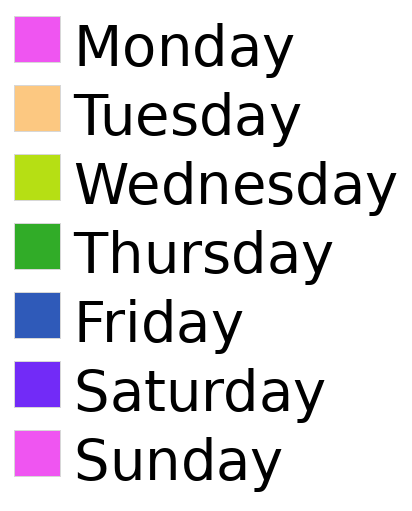
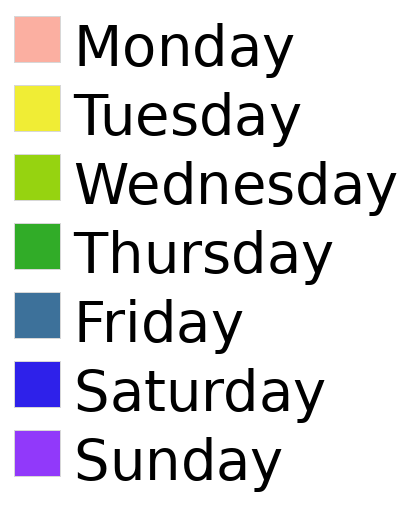
Fix a few issues with the legends

diff --git a/results/paper/probe_gemma_2_9b_l11.tex b/results/paper/probe_gemma_2_9b_l11.tex
@@ -10,6 +10,7 @@
 \begin{minipage}[c][4.0cm][c]{0.7407\linewidth}%
 \centering%
 \includegraphics[width=\linewidth,height=4.0cm,keepaspectratio]{camera_ready/gemma_2_9b_l11__weekdays_—_expert_analysis__E282__cyc_7d__r2__0.8080__scatter.png}%
+\par\vspace{-2pt}{\small\textbf{(a)}}%
 \end{minipage}%
 \begin{minipage}[c][4.0cm][c]{0.2593\linewidth}%
 \centering%
@@ -24,10 +25,12 @@
 \begin{minipage}[c][4.0cm][c]{0.4255\linewidth}%
 \centering%
 \includegraphics[width=\linewidth,height=4.0cm,keepaspectratio]{camera_ready/gemma_2_9b_l11__hours_—_expert_analysis__E1029__am_pm__acc__1.0000__scatter.png}%
+\par\vspace{-2pt}{\small\textbf{(b)}}%
 \end{minipage}%
 \begin{minipage}[c][4.0cm][c]{0.4255\linewidth}%
 \centering%
 \includegraphics[width=\linewidth,height=4.0cm,keepaspectratio]{camera_ready/gemma_2_9b_l11__hours_—_expert_analysis__E1347__cyc_24h__r2__0.6776__scatter.png}%
+\par\vspace{-2pt}{\small\textbf{(c)}}%
 \end{minipage}%
 \begin{minipage}[c][4.0cm][c]{0.1489\linewidth}%
 \centering%
@@ -45,6 +48,7 @@
 \begin{minipage}[c][4.0cm][c]{0.7407\linewidth}%
 \centering%
 \includegraphics[width=\linewidth,height=4.0cm,keepaspectratio]{camera_ready/gemma_2_9b_l11__months_—_expert_analysis__E1942__cyc_12m__r2__0.5915__scatter.png}%
+\par\vspace{-2pt}{\small\textbf{(d)}}%
 \end{minipage}%
 \begin{minipage}[c][4.0cm][c]{0.2593\linewidth}%
 \centering%
@@ -59,10 +63,12 @@
 \begin{minipage}[c][4.0cm][c]{0.4255\linewidth}%
 \centering%
 \includegraphics[width=\linewidth,height=4.0cm,keepaspectratio]{camera_ready/gemma_2_9b_l11__temperatures_—_expert_analysis__E892__linear_f__r2__0.8481__means.png}%
+\par\vspace{-2pt}{\small\textbf{(e)}}%
 \end{minipage}%
 \begin{minipage}[c][4.0cm][c]{0.4255\linewidth}%
 \centering%
 \includegraphics[width=\linewidth,height=4.0cm,keepaspectratio]{camera_ready/gemma_2_9b_l11__temperatures_—_expert_analysis__E485__linear_f__r2__0.6832__means.png}%
+\par\vspace{-2pt}{\small\textbf{(f)}}%
 \end{minipage}%
 \begin{minipage}[c][4.0cm][c]{0.1489\linewidth}%
 \centering%
@@ -80,6 +86,7 @@
 \begin{minipage}[c][4.0cm][c]{0.7407\linewidth}%
 \centering%
 \includegraphics[width=\linewidth,height=4.0cm,keepaspectratio]{camera_ready/gemma_2_9b_l11__time_units_—_expert_analysis__E786__log_duration__r2__0.8392__scatter.png}%
+\par\vspace{-2pt}{\small\textbf{(g)}}%
 \end{minipage}%
 \begin{minipage}[c][4.0cm][c]{0.2593\linewidth}%
 \centering%
@@ -94,6 +101,7 @@
 \begin{minipage}[c][4.0cm][c]{0.7407\linewidth}%
 \centering%
 \includegraphics[width=\linewidth,height=4.0cm,keepaspectratio]{camera_ready/gemma_2_9b_l11__colors_—_expert_analysis__E500__hue_wheel__r2__0.7723__scatter.png}%
+\par\vspace{-2pt}{\small\textbf{(h)}}%
 \end{minipage}%
 \begin{minipage}[c][4.0cm][c]{0.2593\linewidth}%
 \centering%

diff --git a/results/paper/probe_gemma_2_9b_l20.tex b/results/paper/probe_gemma_2_9b_l20.tex
@@ -10,6 +10,7 @@
 \begin{minipage}[c][4.0cm][c]{0.7407\linewidth}%
 \centering%
 \includegraphics[width=\linewidth,height=4.0cm,keepaspectratio]{camera_ready/gemma_2_9b_l20__weekdays_—_expert_analysis__E1808__cyc_7d__r2__0.7594__scatter.png}%
+\par\vspace{-2pt}{\small\textbf{(a)}}%
 \end{minipage}%
 \begin{minipage}[c][4.0cm][c]{0.2593\linewidth}%
 \centering%
@@ -27,14 +28,17 @@
 \begin{minipage}[c][4.0cm][c]{0.2985\linewidth}%
 \centering%
 \includegraphics[width=\linewidth,height=4.0cm,keepaspectratio]{camera_ready/gemma_2_9b_l20__hours_—_expert_analysis__E1041__am_pm__acc__0.9969__scatter.png}%
+\par\vspace{-2pt}{\small\textbf{(b)}}%
 \end{minipage}%
 \begin{minipage}[c][4.0cm][c]{0.2985\linewidth}%
 \centering%
 \includegraphics[width=\linewidth,height=4.0cm,keepaspectratio]{camera_ready/gemma_2_9b_l20__hours_—_expert_analysis__E1701__cyc_24h__r2__0.6186__scatter.png}%
+\par\vspace{-2pt}{\small\textbf{(c)}}%
 \end{minipage}%
 \begin{minipage}[c][4.0cm][c]{0.2985\linewidth}%
 \centering%
 \includegraphics[width=\linewidth,height=4.0cm,keepaspectratio]{camera_ready/gemma_2_9b_l20__hours_—_expert_analysis__E691__cyc_24h__r2__0.6322__scatter.png}%
+\par\vspace{-2pt}{\small\textbf{(d)}}%
 \end{minipage}%
 \begin{minipage}[c][4.0cm][c]{0.1045\linewidth}%
 \centering%
@@ -52,6 +56,7 @@
 \begin{minipage}[c][4.0cm][c]{0.7407\linewidth}%
 \centering%
 \includegraphics[width=\linewidth,height=4.0cm,keepaspectratio]{camera_ready/gemma_2_9b_l20__months_—_expert_analysis__E1628__cyc_12m__r2__0.4700__scatter.png}%
+\par\vspace{-2pt}{\small\textbf{(e)}}%
 \end{minipage}%
 \begin{minipage}[c][4.0cm][c]{0.2593\linewidth}%
 \centering%
@@ -66,6 +71,7 @@
 \begin{minipage}[c][4.0cm][c]{0.7407\linewidth}%
 \centering%
 \includegraphics[width=\linewidth,height=4.0cm,keepaspectratio]{camera_ready/gemma_2_9b_l20__temperatures_—_expert_analysis__E1716__linear_f__r2__0.8101__means.png}%
+\par\vspace{-2pt}{\small\textbf{(f)}}%
 \end{minipage}%
 \begin{minipage}[c][4.0cm][c]{0.2593\linewidth}%
 \centering%
@@ -80,6 +86,7 @@
 \begin{minipage}[c][4.0cm][c]{0.7407\linewidth}%
 \centering%
 \includegraphics[width=\linewidth,height=4.0cm,keepaspectratio]{camera_ready/gemma_2_9b_l20__time_units_—_expert_analysis__E923__log_duration__r2__0.8571__scatter.png}%
+\par\vspace{-2pt}{\small\textbf{(g)}}%
 \end{minipage}%
 \begin{minipage}[c][4.0cm][c]{0.2593\linewidth}%
 \centering%

diff --git a/src/latex/camera_ready.py b/src/latex/camera_ready.py
@@ -670,10 +670,12 @@ def _render_group_legend(group: LegendGroup, output_path: Path) -> None:
             n = len(labels)
             if n <= 0:
                 return
-            # evenly spaced colors for categories
+            # Add dummy endpoints so first and last real labels don't land on
+            # the extremes of the colorscale (which can look identical).
+            n_total = n + 2
             label_to_color = {}
             for i, lbl in enumerate(labels):
-                t = 0.0 if n == 1 else i / (n - 1)
+                t = (i + 1) / (n_total - 1)
                 label_to_color[lbl] = "rgb(%d,%d,%d)" % _sample_colorscale(group.color_scale, t)
             _render_discrete_legend_png(
                 labels=labels,
@@ -974,6 +976,7 @@ def _render_compact_row(row: _Row, cols: int) -> list[str]:
             lines.append(rf"\begin{{minipage}}[c][{_PANEL_HEIGHT}][c]{{{plot_frac:.4f}\linewidth}}%")
             lines.append(r"\centering%")
             lines.append(_include_graphics(png_rel) + "%")
+            lines.append(rf"\par\vspace{{-2pt}}{{\small\textbf{{({u.letter.lower()})}}}}%")
             lines.append(r"\end{minipage}%")
 
         # legend in fixed-height centered box (this centers discrete legends vertically)
@@ -1028,6 +1031,7 @@ def _render_multiline_task_block(block: _Block, cols: int) -> list[str]:
             if i < len(chunk):
                 png_rel = str(Path("camera_ready") / chunk[i].entry.path.name)
                 lines.append(_include_graphics(png_rel) + "%")
+                lines.append(rf"\par\vspace{{-2pt}}{{\small\textbf{{({chunk[i].letter.lower()})}}}}%")
             else:
                 lines.append(r"\vspace{0pt}%")
             lines.append(r"\end{minipage}%")

diff --git a/results/paper/probe_gemma_2_2b_l12.tex b/results/paper/probe_gemma_2_2b_l12.tex
@@ -10,10 +10,12 @@
 \begin{minipage}[c][4.0cm][c]{0.4255\linewidth}%
 \centering%
 \includegraphics[width=\linewidth,height=4.0cm,keepaspectratio]{camera_ready/gemma_2_2b_l12__hours_—_expert_analysis__E1434__am_pm__acc__1.0000__scatter.png}%
+\par\vspace{-2pt}{\small\textbf{(a)}}%
 \end{minipage}%
 \begin{minipage}[c][4.0cm][c]{0.4255\linewidth}%
 \centering%
 \includegraphics[width=\linewidth,height=4.0cm,keepaspectratio]{camera_ready/gemma_2_2b_l12__hours_—_expert_analysis__E234__cyc_24h__r2__0.8002__scatter.png}%
+\par\vspace{-2pt}{\small\textbf{(b)}}%
 \end{minipage}%
 \begin{minipage}[c][4.0cm][c]{0.1489\linewidth}%
 \centering%
@@ -28,6 +30,7 @@
 \begin{minipage}[c][4.0cm][c]{0.7407\linewidth}%
 \centering%
 \includegraphics[width=\linewidth,height=4.0cm,keepaspectratio]{camera_ready/gemma_2_2b_l12__temperatures_—_expert_analysis__E719__linear_f__r2__0.7225__means.png}%
+\par\vspace{-2pt}{\small\textbf{(c)}}%
 \end{minipage}%
 \begin{minipage}[c][4.0cm][c]{0.2593\linewidth}%
 \centering%

diff --git a/results/paper/newline_gemma_2_9b_l20.tex b/results/paper/newline_gemma_2_9b_l20.tex
@@ -10,10 +10,12 @@
 \begin{minipage}[c][4.0cm][c]{0.4255\linewidth}%
 \centering%
 \includegraphics[width=\linewidth,height=4.0cm,keepaspectratio]{camera_ready/gemma_2_9b_l20__pile-uncopyrighted__E1749__periodic_gain__per_gain__0.3201__means.png}%
+\par\vspace{-2pt}{\small\textbf{(a)}}%
 \end{minipage}%
 \begin{minipage}[c][4.0cm][c]{0.4255\linewidth}%
 \centering%
 \includegraphics[width=\linewidth,height=4.0cm,keepaspectratio]{camera_ready/gemma_2_9b_l20__pile-uncopyrighted__E1520__periodic_gain__per_gain__0.2844__means.png}%
+\par\vspace{-2pt}{\small\textbf{(b)}}%
 \end{minipage}%
 \begin{minipage}[c][4.0cm][c]{0.1489\linewidth}%
 \centering%

diff --git a/results/paper/newline_gemma_2_2b_l12.tex b/results/paper/newline_gemma_2_2b_l12.tex
@@ -10,10 +10,12 @@
 \begin{minipage}[c][4.0cm][c]{0.4255\linewidth}%
 \centering%
 \includegraphics[width=\linewidth,height=4.0cm,keepaspectratio]{camera_ready/gemma_2_2b_l12__pile-uncopyrighted__E1895__periodic_gain__per_gain__0.4098__means.png}%
+\par\vspace{-2pt}{\small\textbf{(a)}}%
 \end{minipage}%
 \begin{minipage}[c][4.0cm][c]{0.4255\linewidth}%
 \centering%
 \includegraphics[width=\linewidth,height=4.0cm,keepaspectratio]{camera_ready/gemma_2_2b_l12__pile-uncopyrighted__E647__periodic_gain__per_gain__0.2275__means.png}%
+\par\vspace{-2pt}{\small\textbf{(b)}}%
 \end{minipage}%
 \begin{minipage}[c][4.0cm][c]{0.1489\linewidth}%
 \centering%

diff --git a/results/paper/newline_gemma_2_9b_l11.tex b/results/paper/newline_gemma_2_9b_l11.tex
@@ -10,10 +10,12 @@
 \begin{minipage}[c][4.0cm][c]{0.4255\linewidth}%
 \centering%
 \includegraphics[width=\linewidth,height=4.0cm,keepaspectratio]{camera_ready/gemma_2_9b_l11__pile-uncopyrighted__E541__periodic_gain__per_gain__0.5668__means.png}%
+\par\vspace{-2pt}{\small\textbf{(a)}}%
 \end{minipage}%
 \begin{minipage}[c][4.0cm][c]{0.4255\linewidth}%
 \centering%
 \includegraphics[width=\linewidth,height=4.0cm,keepaspectratio]{camera_ready/gemma_2_9b_l11__pile-uncopyrighted__E1521__periodic_gain__per_gain__0.4970__means.png}%
+\par\vspace{-2pt}{\small\textbf{(b)}}%
 \end{minipage}%
 \begin{minipage}[c][4.0cm][c]{0.1489\linewidth}%
 \centering%
